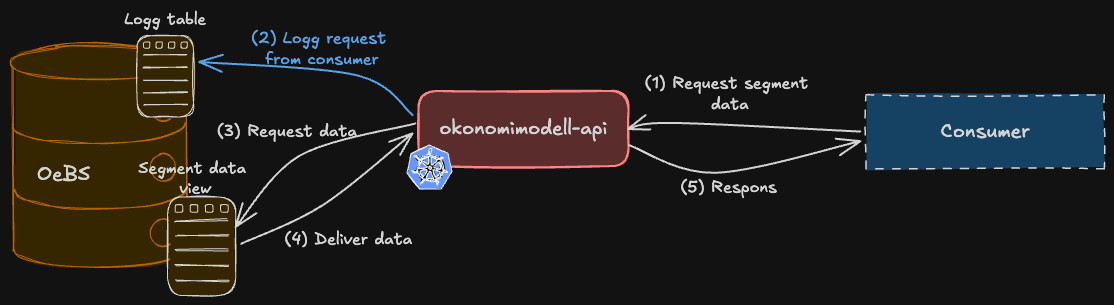
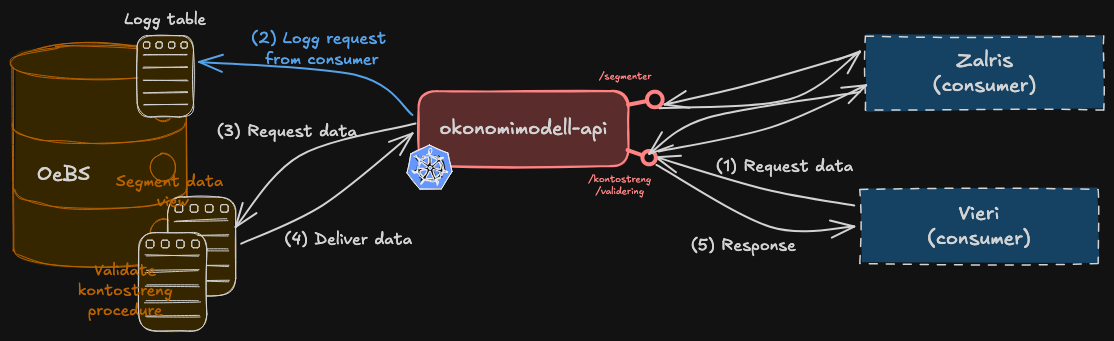
docs: info about Zalaris using service to validate kontostreng (#228)

Changed region(s): [[0.0, 0.0295, 1.0, 0.9738], [0.6104, 0.6787, 0.7325, 0.7377], [0.0, 0.6197, 0.061, 0.6787]]

diff --git a/README.md b/README.md
@@ -1,6 +1,6 @@
 # Okonomimodell API 
 
-Tjenesten eksponerer et API for å hente data segmenter fra økonomimodellen i OeBS-databasen,
+Tjenesten eksponerer et API for å hente data segmenter og validere kontostreng fra økonomimodellen i OeBS-databasen,
 og fungerer dermed som et integrasjonslag mellom OeBS og andre tjenester som trenger tilgang til konteringsinfo fra OeBS. 
 Formålet er at API-et skal være generelt slik at det kan benyttes av flere tjenester.
 
@@ -32,6 +32,18 @@ Endepunktet `/kontostreng/validering` godtar token fra både Azure AD og Maskinp
 Ved bruk av Maskinporten kreves scopet `nav:okonomisystemer/okonomimodell/oksty.read`.
 Instansene t1 og q1 i `dev-gcp` godtar det samme scopet: t1 eksponerer det i Nais-manifestet, mens q1 validerer scopet i applikasjonen uten å eksponere det på nytt.
 Endepunktene for segmentdata krever Azure AD-token.
+
+## Konsumenter 
+Tjenesten har i dag to konsumenter: Vieri og Zalaris 
+* **Vieri** benytter bare endepunktet for validering av kontostreng, og autentiserer seg via maskinporten.
+Ved henvendelser send mail til `support@vieri.no`
+* **Zalaris** er lønnssystemet og benytter endepunkter for å henge segmentdata og validering av kontostreng. 
+  * Autentiserer
+  seg via Azure AD med trygdeetaten tenant. I test bruker den azure appen [Zalaris-SAP-IntegrationSuite-Client-Test](https://portal.azure.com/#view/Microsoft_AAD_RegisteredApps/ApplicationMenuBlade/~/Overview/appId/301f612f-eab6-47b5-84d0-8e517a8b48fc)
+  Tilgang for Zalaris er enda ikke konfiguert i preprod og prod. Authentiseringen bør endres til maskinporten i fremtiden,
+  for å slippe kongigurering av Azure AD for Zalaris. 
+  * Ved behov for henvendelser send mail til `ugis.revelis@zalaris.com`. Dette bør på sikt endres til en generell adresse,
+  slik at kontakten ikke er personavhengig.
 
 ## Avhengigheter
 Tjenesten er avhengig av tilkobling mot oebs, både for å hente data og for å logge kall i databasen.
